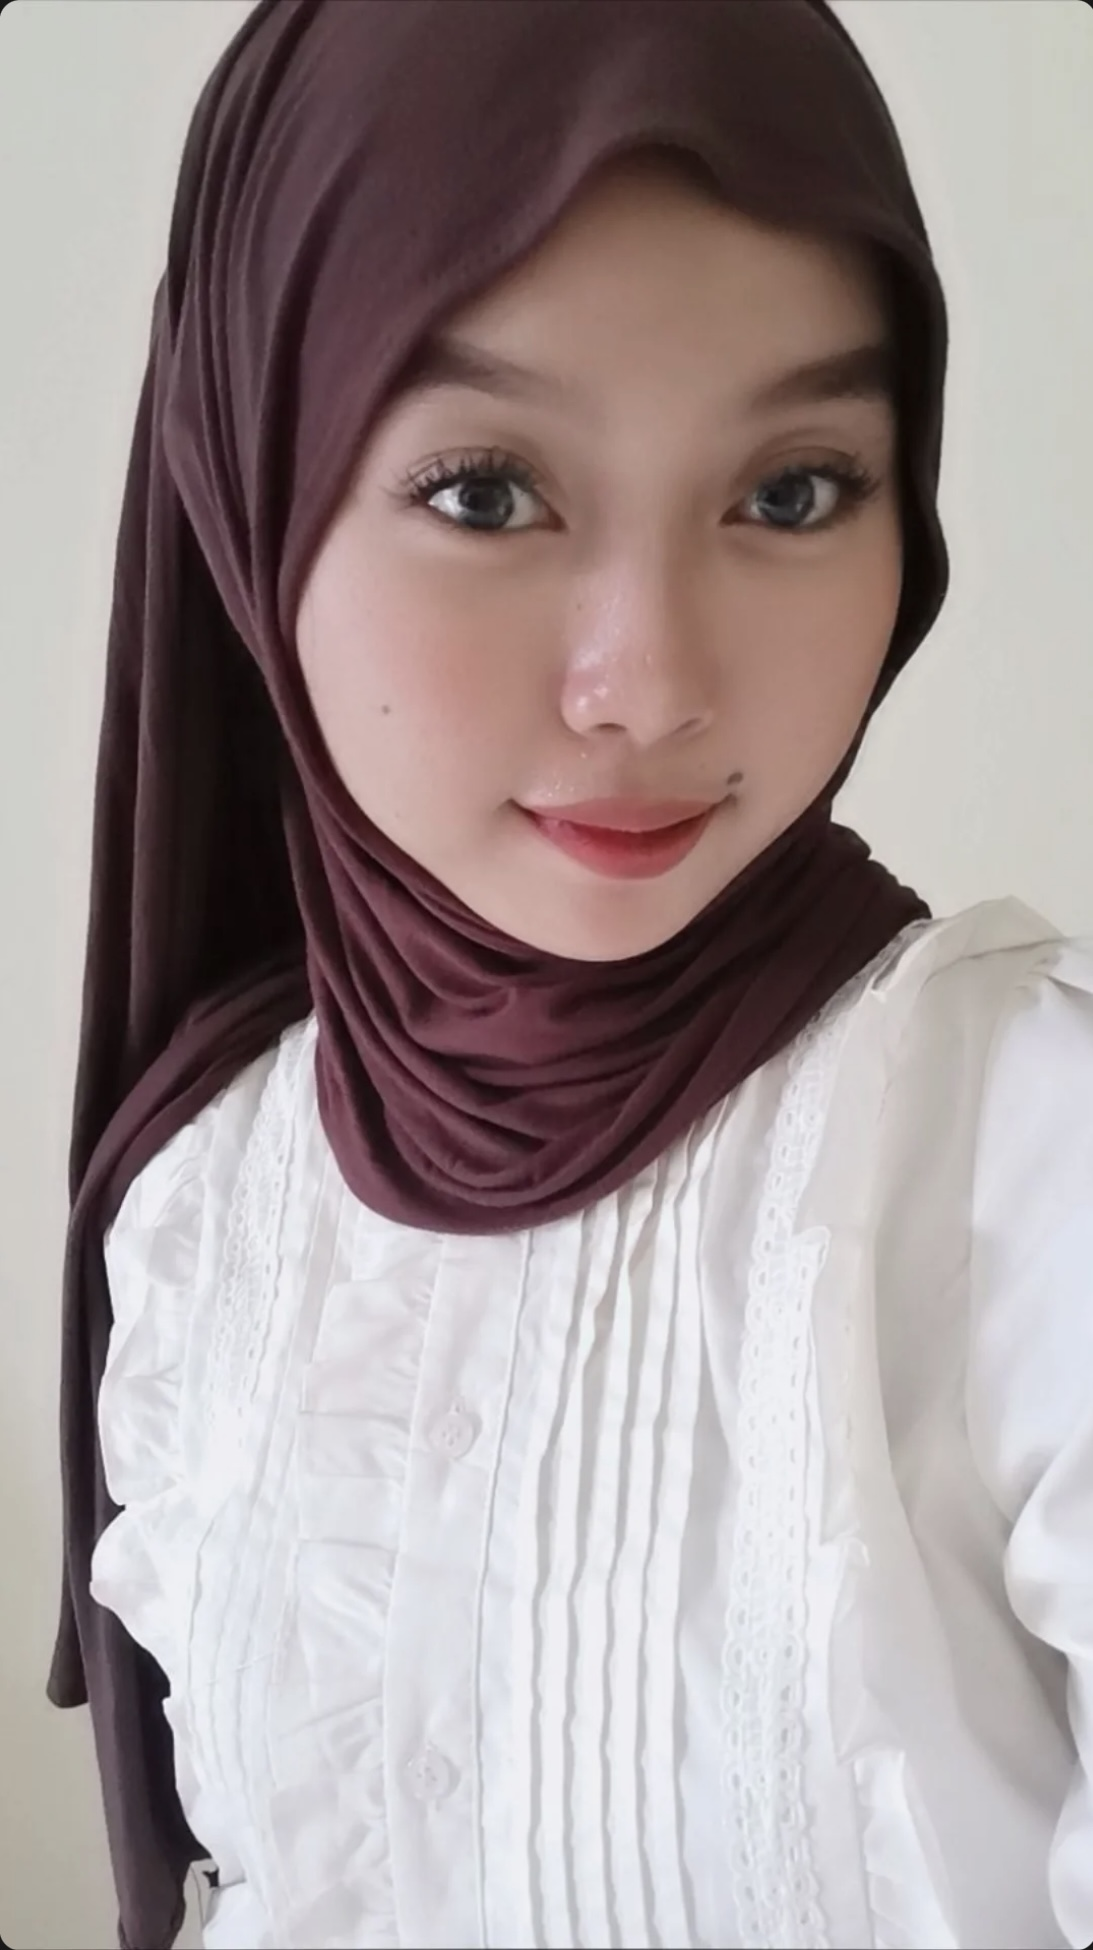
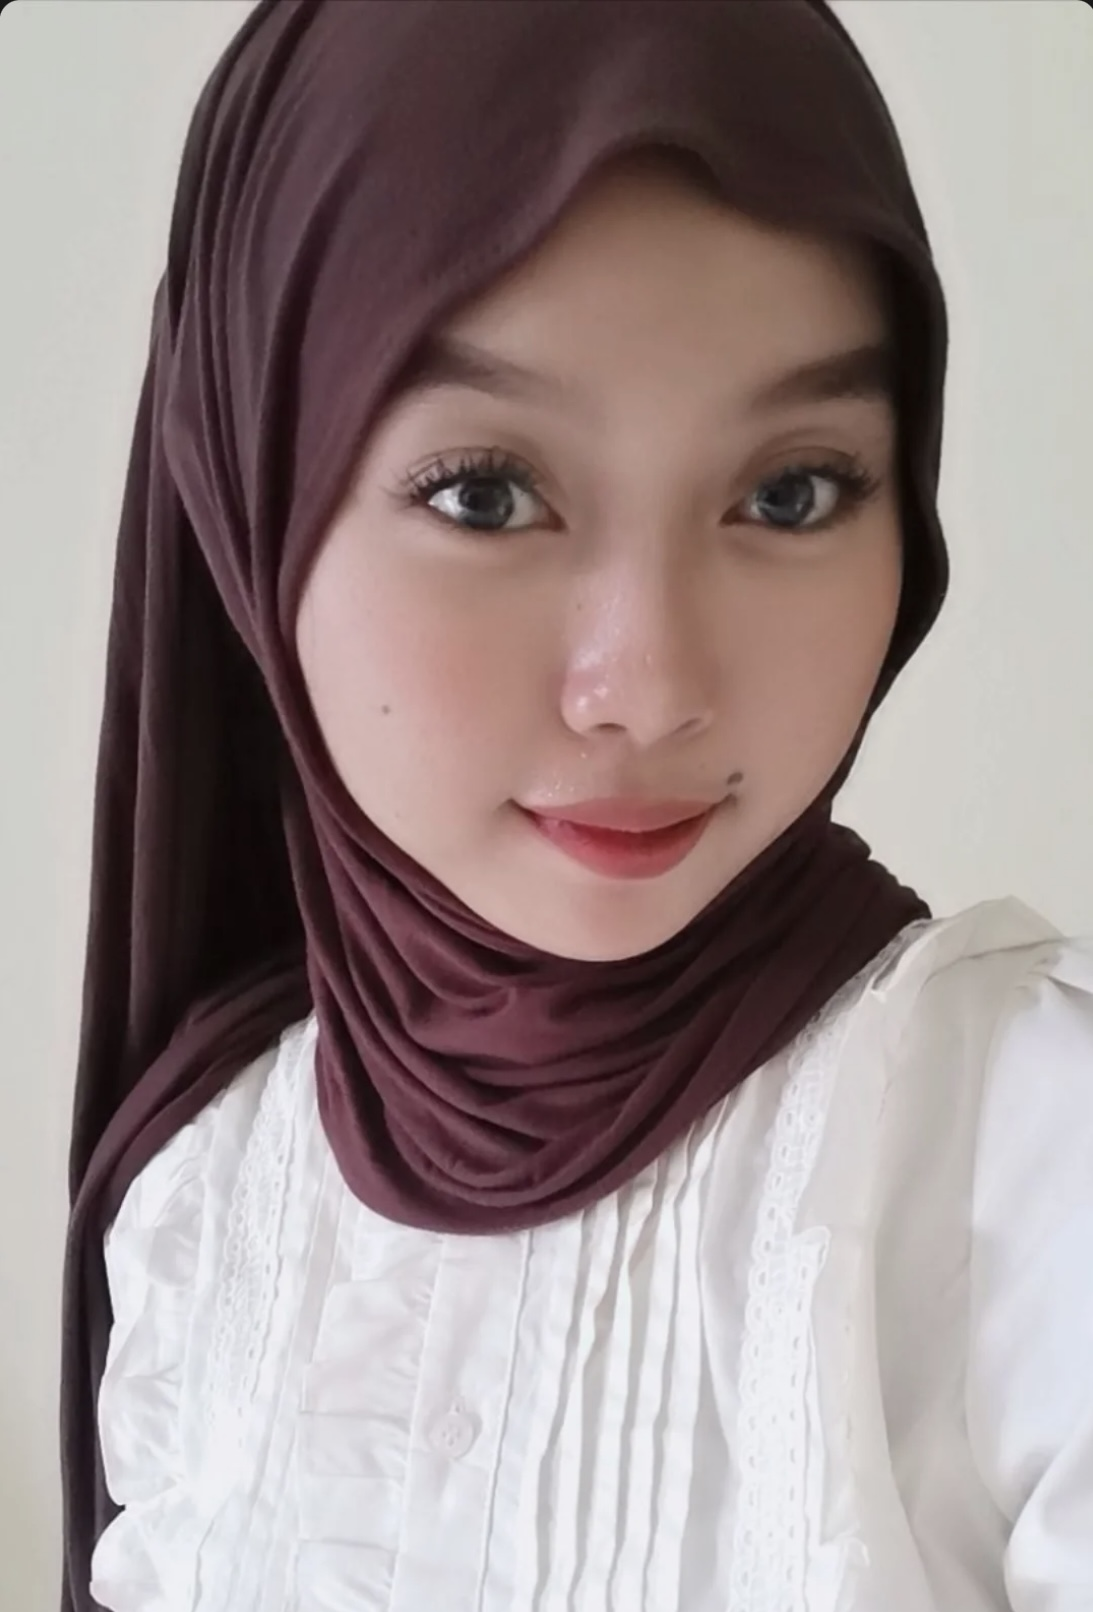
feat: add intro image and format HTML line breaks

diff --git a/index.html b/index.html
@@ -2369,7 +2369,8 @@
             <p class="reveal">Thank you for being you.</p>
           </div>
           <p class="reveal mt-14 font-serif italic text-[clamp(1.6rem,2.6vw,2.3rem)] text-right pr-2">— always yours
-            <span class="not-italic">♡</span></p>
+            <span class="not-italic">♡</span>
+          </p>
         </div>
       </div>
     </section>
@@ -2513,7 +2514,8 @@
                 </p>
                 <p class="mt-3 font-serif text-[clamp(1.6rem,2.6vw,2.2rem)] leading-tight">our little soundtrack</p>
                 <p class="mt-1 text-[14px] text-brown truncate">for <span data-bind="name">HER NAME</span> · chapter
-                  <span data-bind="age">22</span></p>
+                  <span data-bind="age">22</span>
+                </p>
               </div>
             </div>
 
